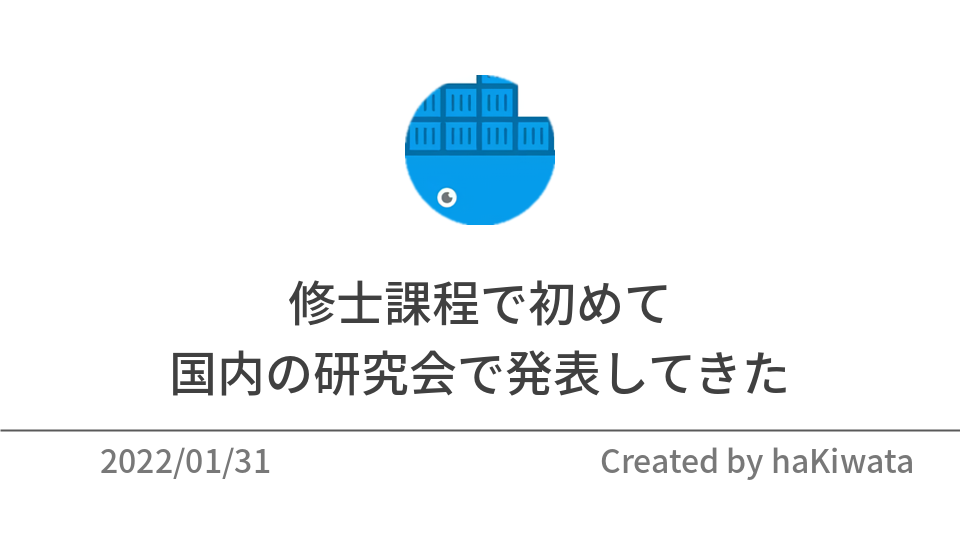
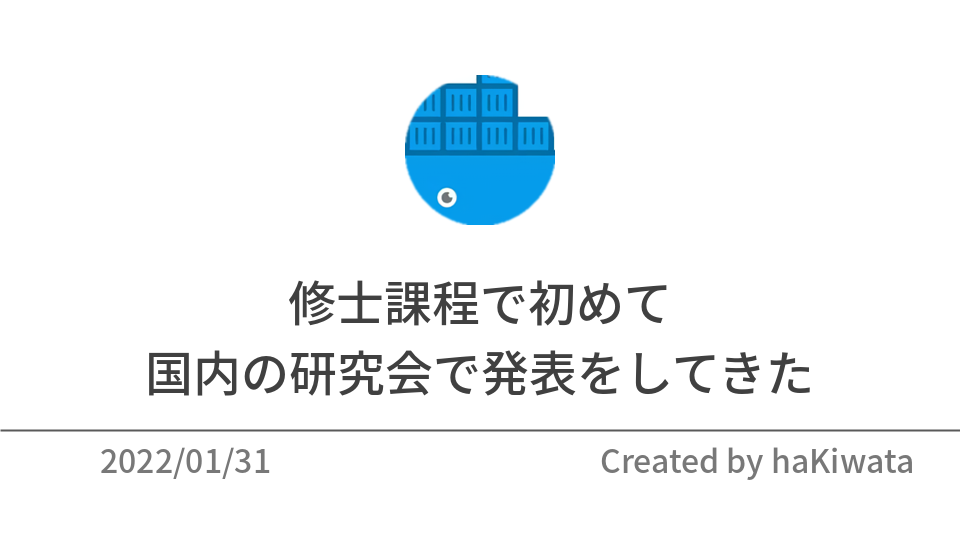
deploy: 02560c167d3b6087881b05457093565931fc89a1

Changed region(s): [[0.1562, 0.6519, 0.8438, 0.7407]]

diff --git a/post/20220131/index.html b/post/20220131/index.html
@@ -1,19 +1,19 @@
 <!doctype html><html lang=en><head><meta charset=utf-8><meta name=viewport content="width=device-width,initial-scale=1"><meta name=generator content="Hugo 0.83.1"><title>修士課程で初めて
-国内の研究会で発表をしてきた - haKiwata</title><meta name=description content="概要  こんにちは :) 先日、1/27 ~ 1/28 に渡って開催されたフォトニックネットワーク研究会で、この 1 年で行ってきた研究の発表を行ってきました。今回はその参加記録を残したいと思います。  参加記録   パブリッククラウドにおけるコンテナを用いたSDN光ネットワーク制御という題目でこの 1 年の成果を発表してきました。従来は単一のベンダのみで構成されていた光ネットワークが、マルチベンダな伝送装置から構成できるような伝送系の分割を促すような研究が近年活発に行われています。イメージとしては、モノリスな Web API をマイクロサービス化するようなものです。こうして、光ネットワークが様々なベンダの装置から構成されると、新たに光ネットワークを制御するためのプラットフォームが必要となります。そこで、そういった光ネットワークを制御するための新しいプラットフォームの提案と性能評価を行うのが我々の研究です。
+国内の研究会で発表をしてきた - haKiwata</title><meta name=description content="概要  こんにちは :) 先日、1/27 ~ 1/28 に渡って開催されたフォトニックネットワーク研究会で、この 1 年で行ってきた研究の発表を行ってきました。今回はその参加記録を残したいと思います。  参加記録   パブリッククラウドにおけるコンテナを用いたSDN光ネットワーク制御という題目でこの 1 年の成果を発表してきました。従来は単一のベンダのみで構成されていた光ネットワークを、マルチベンダな伝送装置から構成される光ネットワークへ分割を促すような研究が近年活発に行われています。イメージとしては、モノリスな Web API をマイクロサービス化するようなものです。こうして、光ネットワークが様々なベンダの装置から構成されると、新たに光ネットワークを制御するためのプラットフォームが必要となります。そこで、そういった光ネットワークを制御するための新しいプラットフォームの提案と性能評価を行うのが我々の研究です。
   修士 1 年の夏前に Signal Processing in Photonic Communications (SPPCom) という国際会議で発表して以来、人生で 2 度目の体外的な学会発表でした。そのため、発表が始まる直前は少しだけソワソワして緊張しました。発表で話す原稿を考えて 10 回くらい通しで練習していたため、発表が始まってしまえば練習通りな感じでした。発表において良くなかった点を挙げるとすれば、質疑応答で完璧にディフェンスができなかったことです。ただ、修士 1 年の 12 月あたりから研究のテーマをガラッと変えていたので、国内の研究会という 1 つの着地点まで持ってこれたのは良かったです。また、共同研究者の指導教員は、自分の発表を絶賛していたのでホッとしました。
   発表やそこに至るまでの感想 (Pros/Cons) は以下の通りです。
- 定期的な研究のアドバイスや研究会の申込みのアナウンスや発表のリハーサルのスケジューリングの手配などは共同研究者の方たちに非常に助けていただきました。しかし、研究の細かい方向性の決定/論文執筆のスケジューリングとその執筆/発表スライドの作成のスケジューリングとその執筆は全て自分で行いました。共同研究者に迷惑をかけられない駆動でこれらのスケジューリングを行っていたので、自然とメリハリをつけることができましたが、結構大変でした。放置と紙一重である (このやり方を否定しているわけではない。) ので、学生を選ぶやり方やなぁと思っていました :) そのため、社会人になったらどんなメンターあるいは Manager に支持するかはかなり重要な問題だと改めて感じました。 想定していなかった少々難しい質問が飛んできて、しどろもどろしてしまったのは非常に悔しかったです。ただ、それ以外の質問はサラッと答えることができたのは良かったです。(サラッと答えることができた質問をした方は阪大の情シスの元 W 研の助教の方だったらしい。) 質問者や研究会全体の雰囲気を見ていると、世界で闘わないとあんまり意味ないのではないかと薄っすら思いました。指導教員が世界！世界！と言う本当の理由が少し理解できたかもしれません。    この発表で課題として痛感したことは以下の通りです。
+ 定期的な研究のアドバイスや研究会の申込みのアナウンスや発表のリハーサルのスケジューリングの手配などは共同研究者の方たちに非常に助けていただきました。しかし、研究の細かい方向性の決定/論文執筆とそのスケジューリング/発表スライドの作成とそのスケジューリングは全て自分で行いました。共同研究者に迷惑をかけられない駆動でこれらのスケジューリングを行っていたので、自然とメリハリをつけることができましたが、結構大変でした。放置と紙一重である (このやり方を否定しているわけではない。) ので、学生を選ぶやり方やなぁと思っていました :) そのため、社会人になったらどんなメンターあるいは Manager に師事するかはかなり重要な問題だと改めて感じました。 想定していなかった少々難しい質問が飛んできて、しどろもどろしてしまったのは非常に悔しかったです。ただ、それ以外の質問はサラッと答えることができたのは良かったです。(サラッと答えることができた質問をした方は、阪大の情シスの元 W 研の助教の方だったらしい。) 質問者や研究会全体の雰囲気を見ていると、世界で闘わないとあんまり意味ないのではないかと薄っすら思いました。指導教員が世界！世界！と言う本当の理由が少し理解できたかもしれません。    この発表で課題として痛感したことは以下の通りです。
  (アカデミック|テクニカル)ライティングの技術とプレゼンテーション能力を更に向上させたいと感じました。発表スライドに関しては、作成段階で指導教員からかなり指摘を受けたので、自分の Week Point である再度認知することができました。そのため、社会人になってこういう発表する機会があれば、果敢に挑戦していきたいです。 質疑応答で答えようがない質問が来たとしても、しどろもどろせず自信を持って応戦しなければならないと痛感しました。最悪、ドンピシャな回答でなくて論点を微妙にずらしてでも答えるようなファイティングポーズは見せるべきで、黙ってしまうこが一番の悪であると痛感しました。これは、場数に依存する気もするので、議論する際に日常的に意識して改善していきたいです。    最後に  今回の発表では、自分の発表の時間帯が朝ということもあり、聴講人数が20人ぐらいでした。これでは、注目度以前の問題なので、次はそれ以上の聴講者のいるオフィシャルな場で発表がしたいです。発表後、指導教員と雑談をしていて、学会の感想に対する怖さもありましたが、研究のやる意義や業界における自分の取るポジショニングなどに関しては思った以上に真剣に吟味しないといけないと感じました。  "><link rel="shortcut icon" href=https://hakiwata.jp/img/images/favicon.ico><link rel=stylesheet href=https://hakiwata.jp/css/ui.css><link rel=stylesheet href=https://hakiwata.jp/css/main.css><link rel=stylesheet href="https://fonts.googleapis.com/css?family=Fira+Mono|Lato|Raleway"><meta property="og:title" content="修士課程で初めて
-国内の研究会で発表をしてきた"><meta property="og:description" content="概要  こんにちは :) 先日、1/27 ~ 1/28 に渡って開催されたフォトニックネットワーク研究会で、この 1 年で行ってきた研究の発表を行ってきました。今回はその参加記録を残したいと思います。  参加記録   パブリッククラウドにおけるコンテナを用いたSDN光ネットワーク制御という題目でこの 1 年の成果を発表してきました。従来は単一のベンダのみで構成されていた光ネットワークが、マルチベンダな伝送装置から構成できるような伝送系の分割を促すような研究が近年活発に行われています。イメージとしては、モノリスな Web API をマイクロサービス化するようなものです。こうして、光ネットワークが様々なベンダの装置から構成されると、新たに光ネットワークを制御するためのプラットフォームが必要となります。そこで、そういった光ネットワークを制御するための新しいプラットフォームの提案と性能評価を行うのが我々の研究です。
+国内の研究会で発表をしてきた"><meta property="og:description" content="概要  こんにちは :) 先日、1/27 ~ 1/28 に渡って開催されたフォトニックネットワーク研究会で、この 1 年で行ってきた研究の発表を行ってきました。今回はその参加記録を残したいと思います。  参加記録   パブリッククラウドにおけるコンテナを用いたSDN光ネットワーク制御という題目でこの 1 年の成果を発表してきました。従来は単一のベンダのみで構成されていた光ネットワークを、マルチベンダな伝送装置から構成される光ネットワークへ分割を促すような研究が近年活発に行われています。イメージとしては、モノリスな Web API をマイクロサービス化するようなものです。こうして、光ネットワークが様々なベンダの装置から構成されると、新たに光ネットワークを制御するためのプラットフォームが必要となります。そこで、そういった光ネットワークを制御するための新しいプラットフォームの提案と性能評価を行うのが我々の研究です。
   修士 1 年の夏前に Signal Processing in Photonic Communications (SPPCom) という国際会議で発表して以来、人生で 2 度目の体外的な学会発表でした。そのため、発表が始まる直前は少しだけソワソワして緊張しました。発表で話す原稿を考えて 10 回くらい通しで練習していたため、発表が始まってしまえば練習通りな感じでした。発表において良くなかった点を挙げるとすれば、質疑応答で完璧にディフェンスができなかったことです。ただ、修士 1 年の 12 月あたりから研究のテーマをガラッと変えていたので、国内の研究会という 1 つの着地点まで持ってこれたのは良かったです。また、共同研究者の指導教員は、自分の発表を絶賛していたのでホッとしました。
   発表やそこに至るまでの感想 (Pros/Cons) は以下の通りです。
- 定期的な研究のアドバイスや研究会の申込みのアナウンスや発表のリハーサルのスケジューリングの手配などは共同研究者の方たちに非常に助けていただきました。しかし、研究の細かい方向性の決定/論文執筆のスケジューリングとその執筆/発表スライドの作成のスケジューリングとその執筆は全て自分で行いました。共同研究者に迷惑をかけられない駆動でこれらのスケジューリングを行っていたので、自然とメリハリをつけることができましたが、結構大変でした。放置と紙一重である (このやり方を否定しているわけではない。) ので、学生を選ぶやり方やなぁと思っていました :) そのため、社会人になったらどんなメンターあるいは Manager に支持するかはかなり重要な問題だと改めて感じました。 想定していなかった少々難しい質問が飛んできて、しどろもどろしてしまったのは非常に悔しかったです。ただ、それ以外の質問はサラッと答えることができたのは良かったです。(サラッと答えることができた質問をした方は阪大の情シスの元 W 研の助教の方だったらしい。) 質問者や研究会全体の雰囲気を見ていると、世界で闘わないとあんまり意味ないのではないかと薄っすら思いました。指導教員が世界！世界！と言う本当の理由が少し理解できたかもしれません。    この発表で課題として痛感したことは以下の通りです。
+ 定期的な研究のアドバイスや研究会の申込みのアナウンスや発表のリハーサルのスケジューリングの手配などは共同研究者の方たちに非常に助けていただきました。しかし、研究の細かい方向性の決定/論文執筆とそのスケジューリング/発表スライドの作成とそのスケジューリングは全て自分で行いました。共同研究者に迷惑をかけられない駆動でこれらのスケジューリングを行っていたので、自然とメリハリをつけることができましたが、結構大変でした。放置と紙一重である (このやり方を否定しているわけではない。) ので、学生を選ぶやり方やなぁと思っていました :) そのため、社会人になったらどんなメンターあるいは Manager に師事するかはかなり重要な問題だと改めて感じました。 想定していなかった少々難しい質問が飛んできて、しどろもどろしてしまったのは非常に悔しかったです。ただ、それ以外の質問はサラッと答えることができたのは良かったです。(サラッと答えることができた質問をした方は、阪大の情シスの元 W 研の助教の方だったらしい。) 質問者や研究会全体の雰囲気を見ていると、世界で闘わないとあんまり意味ないのではないかと薄っすら思いました。指導教員が世界！世界！と言う本当の理由が少し理解できたかもしれません。    この発表で課題として痛感したことは以下の通りです。
  (アカデミック|テクニカル)ライティングの技術とプレゼンテーション能力を更に向上させたいと感じました。発表スライドに関しては、作成段階で指導教員からかなり指摘を受けたので、自分の Week Point である再度認知することができました。そのため、社会人になってこういう発表する機会があれば、果敢に挑戦していきたいです。 質疑応答で答えようがない質問が来たとしても、しどろもどろせず自信を持って応戦しなければならないと痛感しました。最悪、ドンピシャな回答でなくて論点を微妙にずらしてでも答えるようなファイティングポーズは見せるべきで、黙ってしまうこが一番の悪であると痛感しました。これは、場数に依存する気もするので、議論する際に日常的に意識して改善していきたいです。    最後に  今回の発表では、自分の発表の時間帯が朝ということもあり、聴講人数が20人ぐらいでした。これでは、注目度以前の問題なので、次はそれ以上の聴講者のいるオフィシャルな場で発表がしたいです。発表後、指導教員と雑談をしていて、学会の感想に対する怖さもありましたが、研究のやる意義や業界における自分の取るポジショニングなどに関しては思った以上に真剣に吟味しないといけないと感じました。  "><meta property="og:type" content="article"><meta property="og:url" content="https://hakiwata.jp/post/20220131/"><meta property="og:image" content="https://hakiwata.jp/"><meta property="article:section" content="post"><meta property="article:published_time" content="2022-01-30T16:59:20+00:00"><meta property="article:modified_time" content="2022-01-30T16:59:20+00:00"><meta name=twitter:card content="summary_large_image"><meta name=twitter:site content="@bilmnpvovqnmlid"><meta name=twitter:creator content="@bilmnpvovqnmlid"><meta property="twitter:image" content="https://hakiwata.jp/img/images/20220131.png"><meta property="og:title" content="修士課程で初めて
 国内の研究会で発表をしてきた"><meta property="og:url" content="https://hakiwata.jp/post/20220131/"><meta property="og:image" content="https://hakiwata.jp/img/images/20220131.png"><meta property="og:description" content><script async src="https://www.googletagmanager.com/gtag/js?id=G-YXCYPL25QW"></script><script>var doNotTrack=!1;if(!doNotTrack){window.dataLayer=window.dataLayer||[];function gtag(){dataLayer.push(arguments)}gtag('js',new Date),gtag('config','G-YXCYPL25QW',{anonymize_ip:!1})}</script></head><body><header class="container no-print"><div class=u-header><nav class=bar><ul><li><a href=https://hakiwata.jp/><img class=icon-text src=https://hakiwata.jp/img/prev.svg></a></li><li><a href=https://hakiwata.jp/about>About</a></li><li><a href=https://hakiwata.jp/log>Log</a></li><li><a href=https://hakiwata.jp/post>Post</a></li><li><a href=https://hakiwata.jp/scraps>Scraps</a></li><li><a href=https://hakiwata.jp/tags>Tags</a></li></ul></nav></div></header><main class=container><article><header><hgroup id=brand><h1>修士課程で初めて
 国内の研究会で発表をしてきた</h1><h5><time datetime="2022-01-30 16:59:20 +0000 UTC">Jan 30, 2022</time>
 <span class=no-print>-
 <a href=https://hakiwata.jp/tags/research>Research</a>
-<span></h5></hgroup><hr class=sep></header><h2 id=概要>概要</h2><ul><li>こんにちは :) 先日、1/27 ~ 1/28 に渡って開催された<a href="https://www.ieice.org/ken/program/index.php?tgs_regid=f301afe5515873af934c79186dd9daff49a4a8dd5003607cadecf0bef5630b43&tgid=IEICE-PN">フォトニックネットワーク研究会</a>で、この 1 年で行ってきた研究の発表を行ってきました。今回はその参加記録を残したいと思います。</li></ul><h2 id=参加記録>参加記録</h2><ul><li><p><a href=https://www.ieice.org/ken/paper/20220128fC7Q/>パブリッククラウドにおけるコンテナを用いたSDN光ネットワーク制御</a>という題目でこの 1 年の成果を発表してきました。従来は単一のベンダのみで構成されていた光ネットワークが、マルチベンダな伝送装置から構成できるような伝送系の分割を促すような研究が近年活発に行われています。イメージとしては、モノリスな Web API をマイクロサービス化するようなものです。こうして、光ネットワークが様々なベンダの装置から構成されると、新たに光ネットワークを制御するためのプラットフォームが必要となります。そこで、そういった光ネットワークを制御するための新しいプラットフォームの提案と性能評価を行うのが我々の研究です。</p></li><li><p>修士 1 年の夏前に <a href=https://www.optica.org/en-us/meetings/osa_meetings/advanced_photonics_congress/program/signal_processing_in_photonic_communications/>Signal Processing in Photonic Communications (SPPCom)</a> という国際会議で発表して以来、人生で 2 度目の体外的な学会発表でした。そのため、発表が始まる直前は少しだけソワソワして緊張しました。発表で話す原稿を考えて 10 回くらい通しで練習していたため、発表が始まってしまえば練習通りな感じでした。発表において良くなかった点を挙げるとすれば、質疑応答で完璧にディフェンスができなかったことです。ただ、修士 1 年の 12 月あたりから研究のテーマをガラッと変えていたので、国内の研究会という 1 つの着地点まで持ってこれたのは良かったです。また、共同研究者の指導教員は、自分の発表を絶賛していたのでホッとしました。</p></li><li><p>発表やそこに至るまでの感想 (Pros/Cons) は以下の通りです。</p><ul><li>定期的な研究のアドバイスや研究会の申込みのアナウンスや発表のリハーサルのスケジューリングの手配などは共同研究者の方たちに非常に助けていただきました。しかし、研究の細かい方向性の決定/論文執筆のスケジューリングとその執筆/発表スライドの作成のスケジューリングとその執筆は全て自分で行いました。共同研究者に迷惑をかけられない駆動でこれらのスケジューリングを行っていたので、自然とメリハリをつけることができましたが、結構大変でした。放置と紙一重である (このやり方を否定しているわけではない。) ので、学生を選ぶやり方やなぁと思っていました :) そのため、社会人になったらどんなメンターあるいは Manager に支持するかはかなり重要な問題だと改めて感じました。</li><li>想定していなかった少々難しい質問が飛んできて、しどろもどろしてしまったのは非常に悔しかったです。ただ、それ以外の質問はサラッと答えることができたのは良かったです。(サラッと答えることができた質問をした方は阪大の情シスの元 W 研の助教の方だったらしい。)</li><li>質問者や研究会全体の雰囲気を見ていると、世界で闘わないとあんまり意味ないのではないかと薄っすら思いました。指導教員が世界！世界！と言う本当の理由が少し理解できたかもしれません。</li></ul></li><li><p>この発表で課題として痛感したことは以下の通りです。</p><ul><li>(アカデミック|テクニカル)ライティングの技術とプレゼンテーション能力を更に向上させたいと感じました。発表スライドに関しては、作成段階で指導教員からかなり指摘を受けたので、自分の Week Point である再度認知することができました。そのため、社会人になってこういう発表する機会があれば、果敢に挑戦していきたいです。</li><li>質疑応答で答えようがない質問が来たとしても、しどろもどろせず自信を持って応戦しなければならないと痛感しました。最悪、ドンピシャな回答でなくて論点を微妙にずらしてでも答えるようなファイティングポーズは見せるべきで、黙ってしまうこが一番の悪であると痛感しました。これは、場数に依存する気もするので、議論する際に日常的に意識して改善していきたいです。</li></ul></li></ul><h2 id=最後に>最後に</h2><ul><li>今回の発表では、自分の発表の時間帯が朝ということもあり、聴講人数が20人ぐらいでした。これでは、注目度以前の問題なので、次はそれ以上の聴講者のいるオフィシャルな場で発表がしたいです。発表後、指導教員と雑談をしていて、学会の感想に対する怖さもありましたが、研究のやる意義や業界における自分の取るポジショニングなどに関しては思った以上に真剣に吟味しないといけないと感じました。</li></ul></article><nav class="no-print post-nav"><a class=prev-post href=https://hakiwata.jp/post/20220114/><img class=icon-text src=https://hakiwata.jp/img/prev.svg>Vercel のドキュメントの修正を
+<span></h5></hgroup><hr class=sep></header><h2 id=概要>概要</h2><ul><li>こんにちは :) 先日、1/27 ~ 1/28 に渡って開催された<a href="https://www.ieice.org/ken/program/index.php?tgs_regid=f301afe5515873af934c79186dd9daff49a4a8dd5003607cadecf0bef5630b43&tgid=IEICE-PN">フォトニックネットワーク研究会</a>で、この 1 年で行ってきた研究の発表を行ってきました。今回はその参加記録を残したいと思います。</li></ul><h2 id=参加記録>参加記録</h2><ul><li><p><a href=https://www.ieice.org/ken/paper/20220128fC7Q/>パブリッククラウドにおけるコンテナを用いたSDN光ネットワーク制御</a>という題目でこの 1 年の成果を発表してきました。従来は単一のベンダのみで構成されていた光ネットワークを、マルチベンダな伝送装置から構成される光ネットワークへ分割を促すような研究が近年活発に行われています。イメージとしては、モノリスな Web API をマイクロサービス化するようなものです。こうして、光ネットワークが様々なベンダの装置から構成されると、新たに光ネットワークを制御するためのプラットフォームが必要となります。そこで、そういった光ネットワークを制御するための新しいプラットフォームの提案と性能評価を行うのが我々の研究です。</p></li><li><p>修士 1 年の夏前に <a href=https://www.optica.org/en-us/meetings/osa_meetings/advanced_photonics_congress/program/signal_processing_in_photonic_communications/>Signal Processing in Photonic Communications (SPPCom)</a> という国際会議で発表して以来、人生で 2 度目の体外的な学会発表でした。そのため、発表が始まる直前は少しだけソワソワして緊張しました。発表で話す原稿を考えて 10 回くらい通しで練習していたため、発表が始まってしまえば練習通りな感じでした。発表において良くなかった点を挙げるとすれば、質疑応答で完璧にディフェンスができなかったことです。ただ、修士 1 年の 12 月あたりから研究のテーマをガラッと変えていたので、国内の研究会という 1 つの着地点まで持ってこれたのは良かったです。また、共同研究者の指導教員は、自分の発表を絶賛していたのでホッとしました。</p></li><li><p>発表やそこに至るまでの感想 (Pros/Cons) は以下の通りです。</p><ul><li>定期的な研究のアドバイスや研究会の申込みのアナウンスや発表のリハーサルのスケジューリングの手配などは共同研究者の方たちに非常に助けていただきました。しかし、研究の細かい方向性の決定/論文執筆とそのスケジューリング/発表スライドの作成とそのスケジューリングは全て自分で行いました。共同研究者に迷惑をかけられない駆動でこれらのスケジューリングを行っていたので、自然とメリハリをつけることができましたが、結構大変でした。放置と紙一重である (このやり方を否定しているわけではない。) ので、学生を選ぶやり方やなぁと思っていました :) そのため、社会人になったらどんなメンターあるいは Manager に師事するかはかなり重要な問題だと改めて感じました。</li><li>想定していなかった少々難しい質問が飛んできて、しどろもどろしてしまったのは非常に悔しかったです。ただ、それ以外の質問はサラッと答えることができたのは良かったです。(サラッと答えることができた質問をした方は、阪大の情シスの元 W 研の助教の方だったらしい。)</li><li>質問者や研究会全体の雰囲気を見ていると、世界で闘わないとあんまり意味ないのではないかと薄っすら思いました。指導教員が世界！世界！と言う本当の理由が少し理解できたかもしれません。</li></ul></li><li><p>この発表で課題として痛感したことは以下の通りです。</p><ul><li>(アカデミック|テクニカル)ライティングの技術とプレゼンテーション能力を更に向上させたいと感じました。発表スライドに関しては、作成段階で指導教員からかなり指摘を受けたので、自分の Week Point である再度認知することができました。そのため、社会人になってこういう発表する機会があれば、果敢に挑戦していきたいです。</li><li>質疑応答で答えようがない質問が来たとしても、しどろもどろせず自信を持って応戦しなければならないと痛感しました。最悪、ドンピシャな回答でなくて論点を微妙にずらしてでも答えるようなファイティングポーズは見せるべきで、黙ってしまうこが一番の悪であると痛感しました。これは、場数に依存する気もするので、議論する際に日常的に意識して改善していきたいです。</li></ul></li></ul><h2 id=最後に>最後に</h2><ul><li>今回の発表では、自分の発表の時間帯が朝ということもあり、聴講人数が20人ぐらいでした。これでは、注目度以前の問題なので、次はそれ以上の聴講者のいるオフィシャルな場で発表がしたいです。発表後、指導教員と雑談をしていて、学会の感想に対する怖さもありましたが、研究のやる意義や業界における自分の取るポジショニングなどに関しては思った以上に真剣に吟味しないといけないと感じました。</li></ul></article><nav class="no-print post-nav"><a class=prev-post href=https://hakiwata.jp/post/20220114/><img class=icon-text src=https://hakiwata.jp/img/prev.svg>Vercel のドキュメントの修正を
 Vercel Support に依頼してみた</a></nav><hr class=sep></main><footer class="container no-print"><div class=u-footer><a href=https://github.com/dilmnqvovpnmlib><img class=icon-social src=https://hakiwata.jp/img/github.svg alt=Github></a>
 <a href=https://twitter.com/bilmnpvovqnmlid><img class=icon-social src=https://hakiwata.jp/img/twitter.svg alt=Twitter></a>
 <a href=https://hakiwata.jp/index.xml target=_blank><img class=icon-social src=https://hakiwata.jp/img/feed.svg alt=Feed></a><p>&copy; 2021 haKiwata</p><a href=#brand><img class=icon-text src=https://hakiwata.jp/img/toup.svg alt="To Up">
